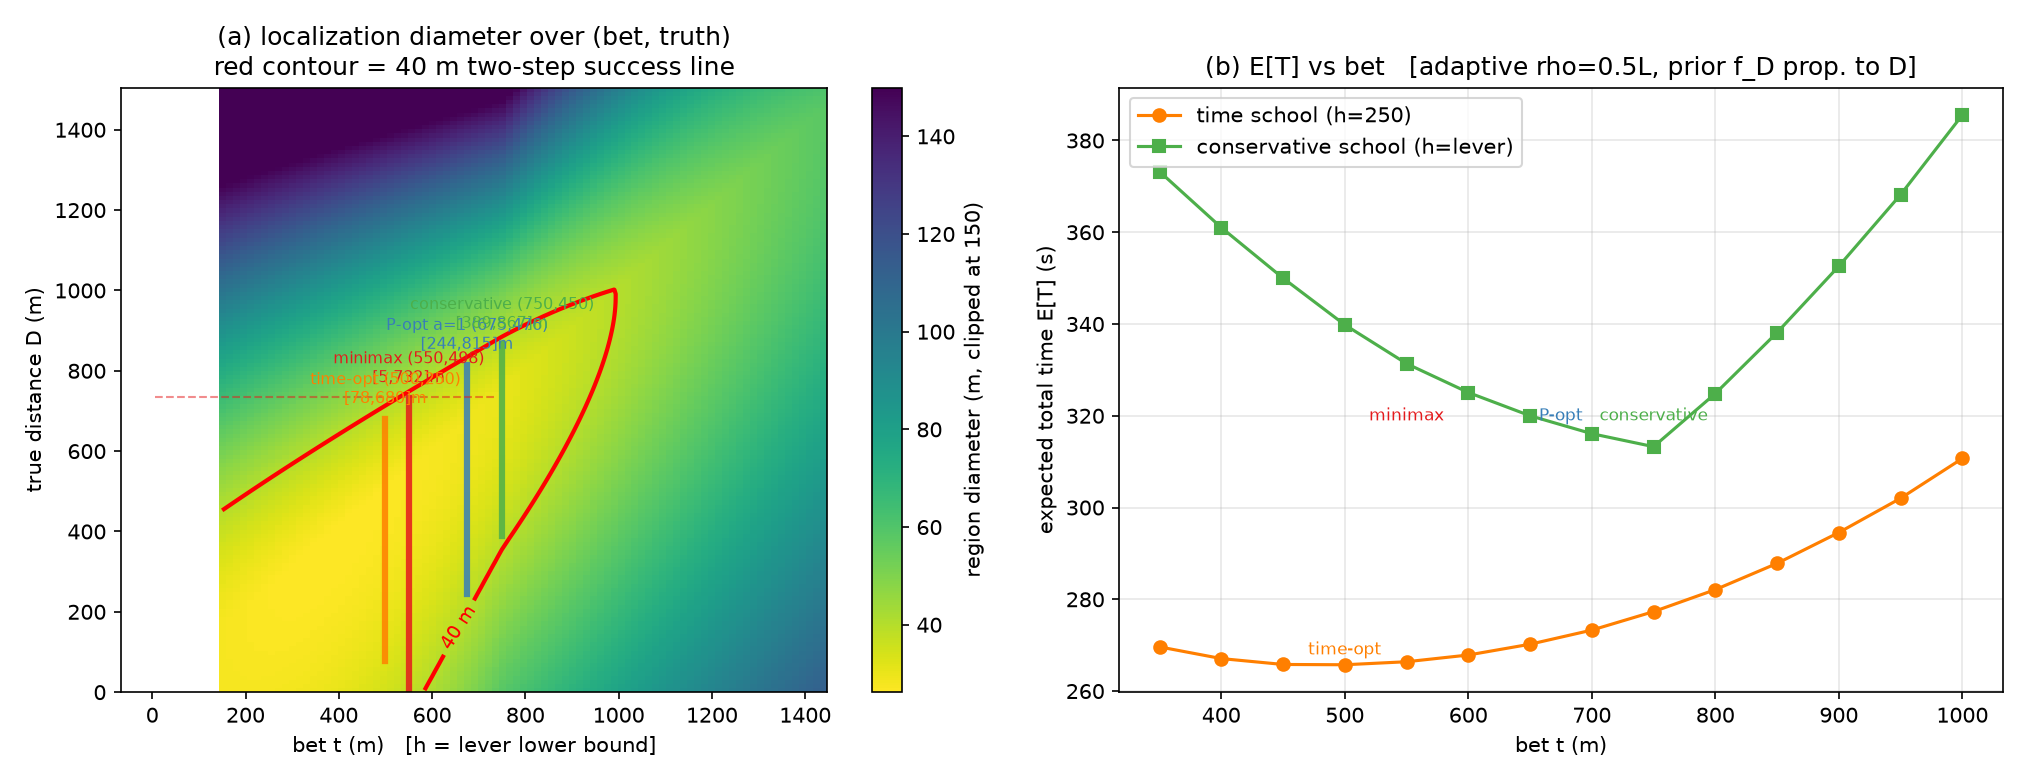
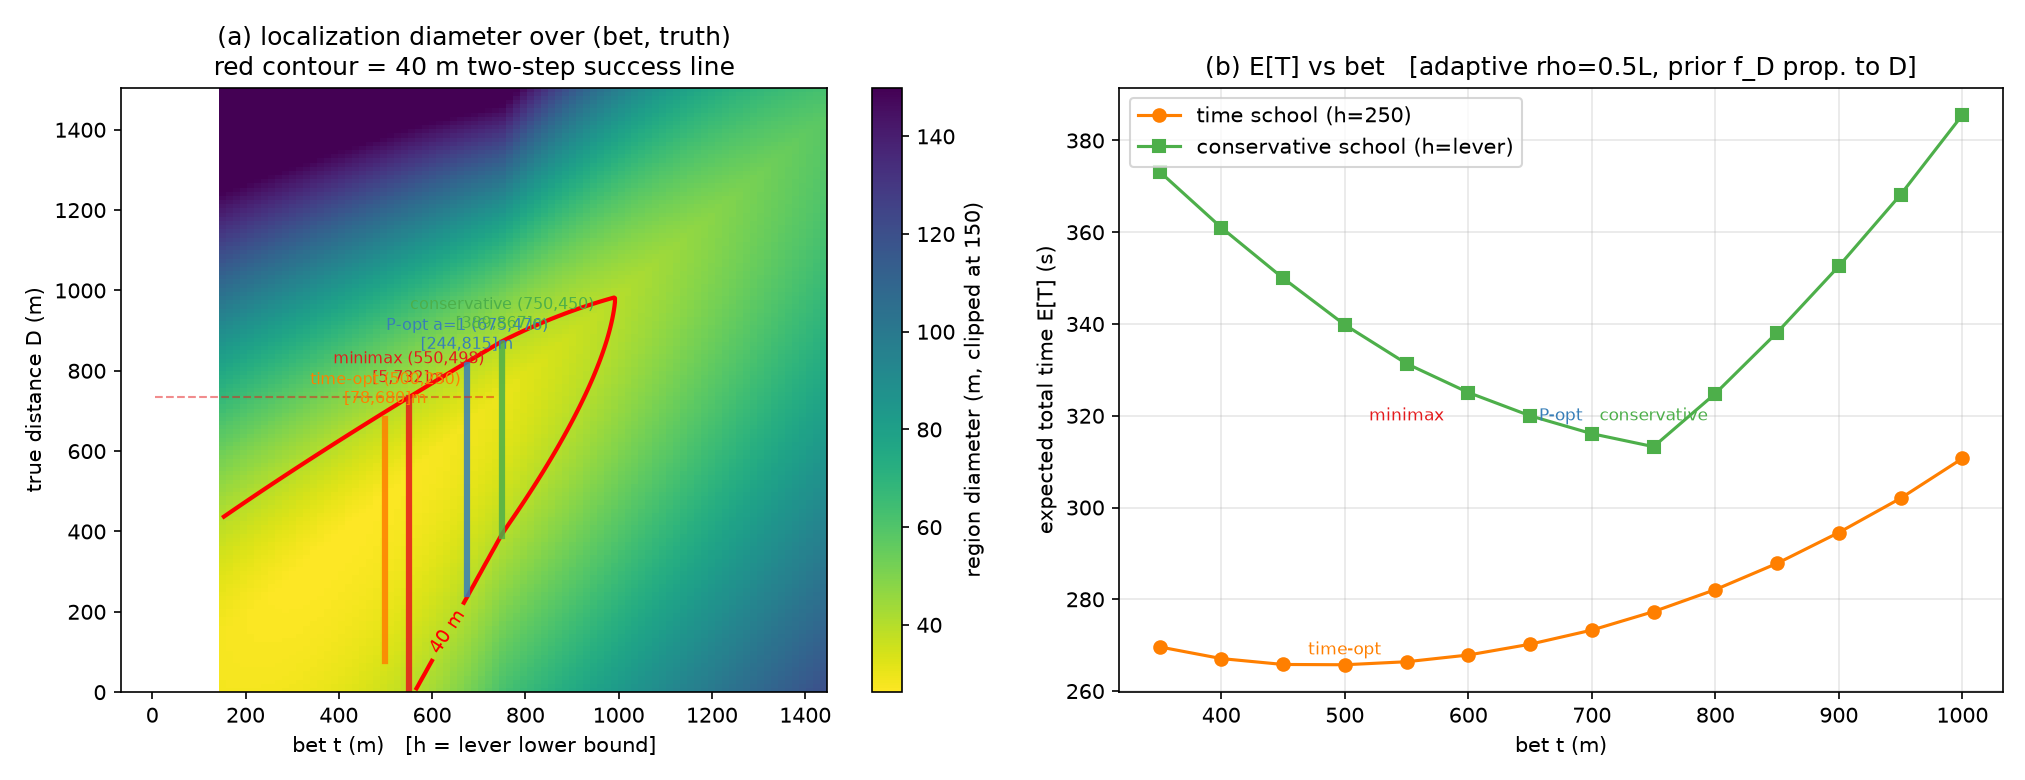
q2: 修复队友审计发现的缺陷并更新参考稿
代码修复:
- design_chart.py: 热力图最坏误差口径 min→max, 与成功区间口径统一
  (对ε取最有利导致图(a)偏乐观2.7%, 40m等值线748→727m), 重绘设计图
- geometry.py: episode() 收敛检查, 未收敛返回inf而非误报有限时间

文档更新 (第二问_论文参考稿 md/docx):
- 符号说明新增 δ/tanδ 口径说明 (相对差1.6e-6)
- 定理3 升级为 9点+41×41连续误差扫描双重核验 (最坏MEC 19.93m 一致)
- 局限新增(v): 仿真代码三处已知简化的量化声明
  (region无物理可行域裁剪→结果偏保守; no_signal触发率0.2%-1.0%; 原点特例)

回归验证: E[T] 268/319/319s 不变, 300次episode 0次未收敛

diff --git a/q2/design_chart.py b/q2/design_chart.py
@@ -24,7 +24,7 @@ Z = np.zeros((len(Ds), len(ts)))
 for i, D in enumerate(Ds):
     for j, t in enumerate(ts):
         h = lever_h(t)
-        Z[i, j] = 2 * DELTA * np.sqrt(min(k_expr(t, h, D, e) for e in EPS5))
+        Z[i, j] = 2 * DELTA * np.sqrt(max(k_expr(t, h, D, e) for e in EPS5))  # 最坏情形(对ε取max,与interval()口径一致)
 Zc = np.clip(Z, 0, 150)                     # 截断到150m便于显示
 
 schools = [(550, 498, "minimax (550,498)"),

diff --git a/q2/geometry.py b/q2/geometry.py
@@ -137,5 +137,7 @@ def episode(t, h, D, rng=None, rho_rule=lambda L: 300.0, max_meas=7):
         HPs += meas_at(Sn)
     v = region(HPs)
     r, C = mec(v)
+    if r > 20.0:
+        return np.inf, n          # 未收敛: 目标未清除, 该episode时间无意义
     T += np.linalg.norm(C - cur) / V + CLEAR_T
     return T, n
